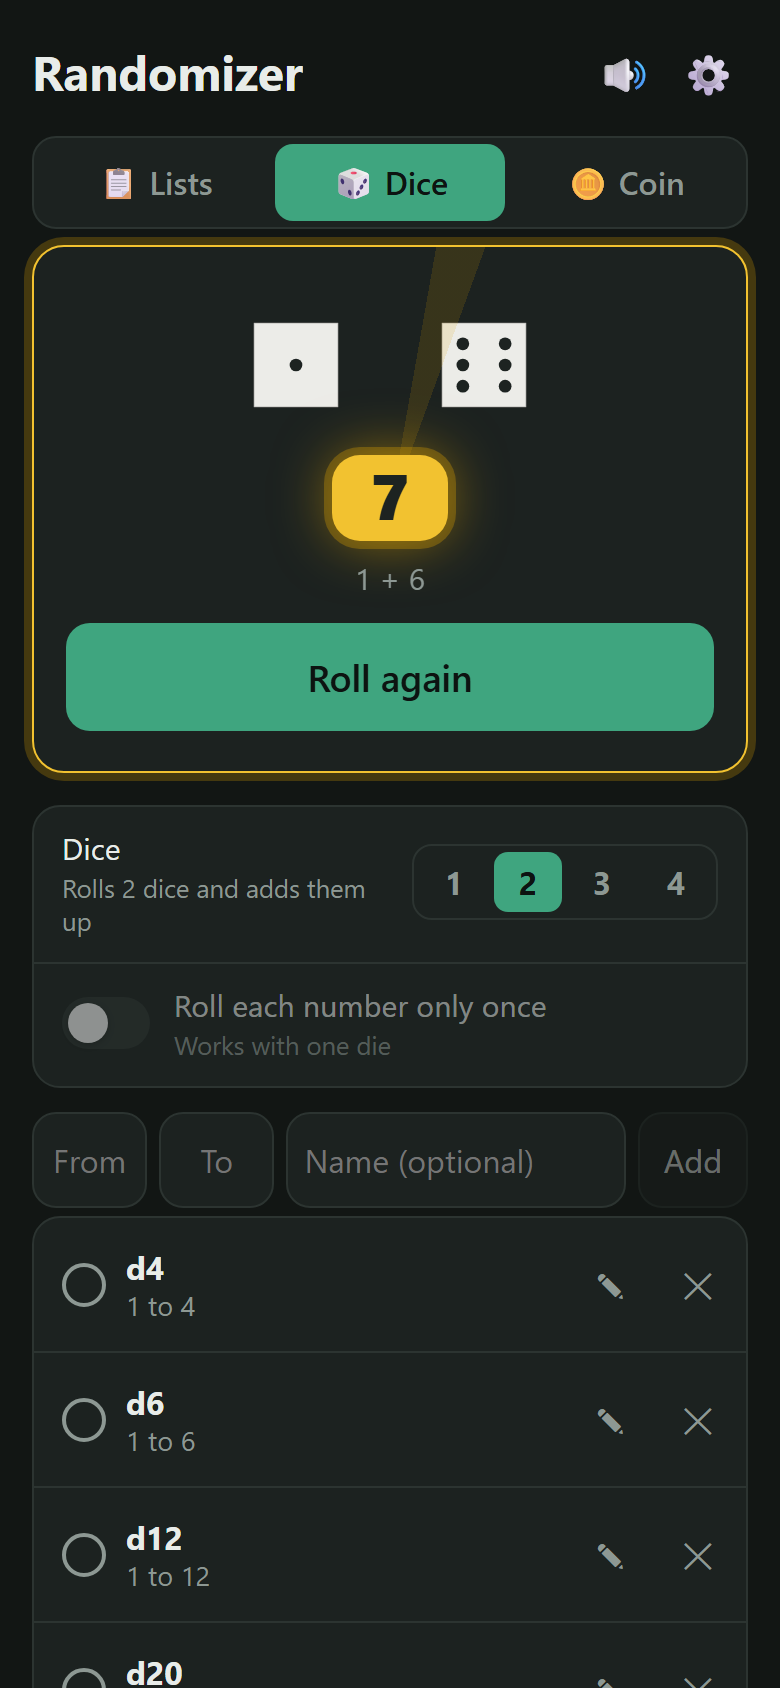
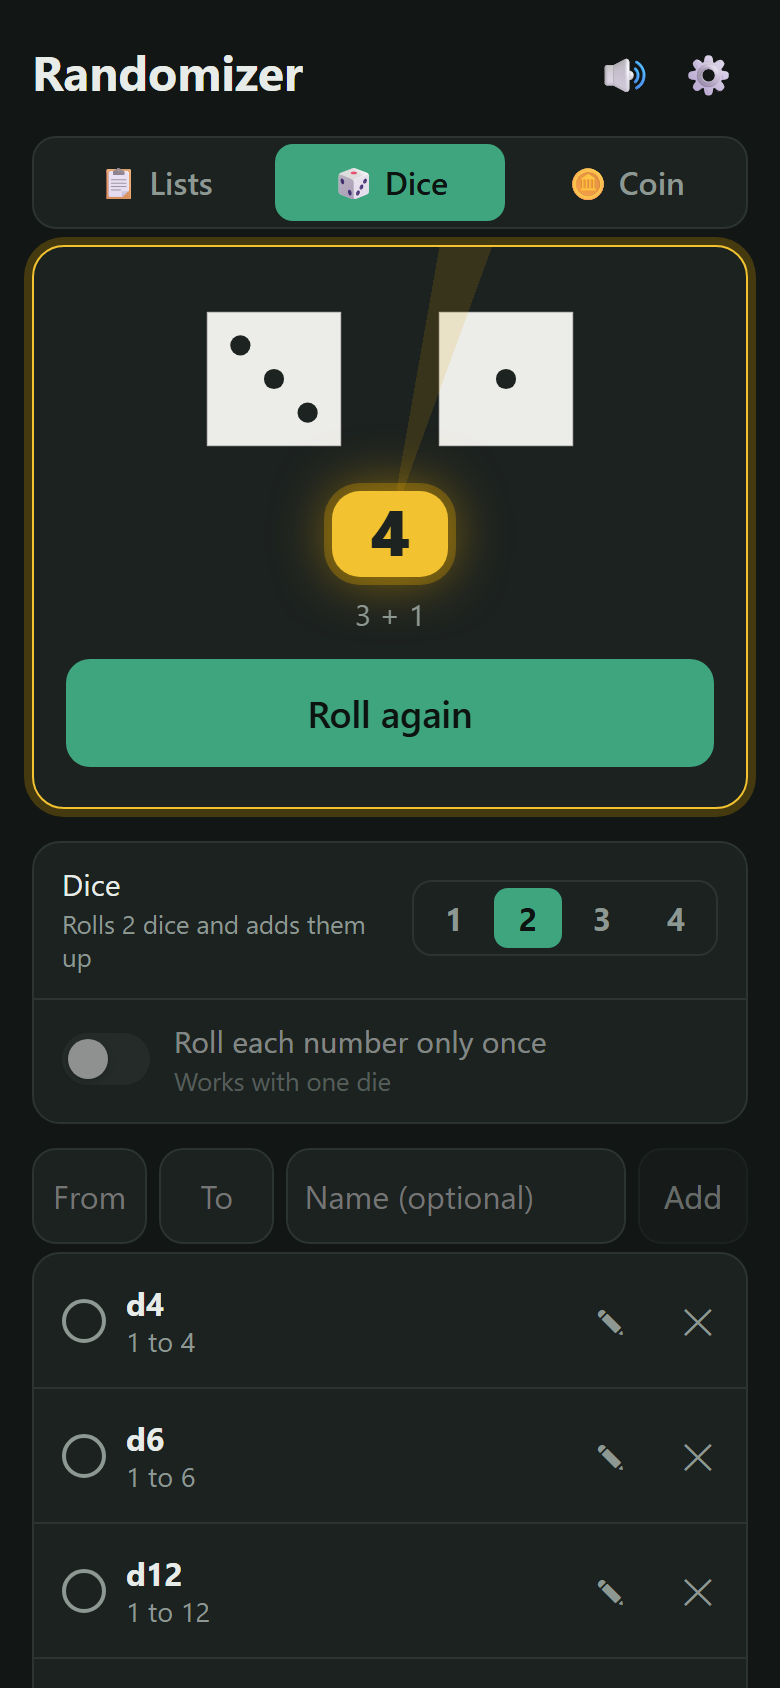
Bigger dice: larger canvases and fuller drawing

diff --git a/index.html b/index.html
@@ -105,10 +105,9 @@
   /* Dice mode shows the dice of the chosen range (1–4 of them), drawn in 3D on
      canvases: real shapes (d4, d6, d8, d10, d12, d20) when the range fits one,
      or a purple "magic" d20 otherwise. They rest on the face they last landed on. */
-  #die { display: flex; justify-content: center; gap: 4px; height: 0; opacity: 0; pointer-events: none; transition: height .3s ease, opacity .3s ease; }
-  body.number-mode #die { height: 90px; opacity: 1; margin-top: -6px; }
-  #die canvas { display: block; width: 90px; height: 90px; flex: none; }
-  #die.many canvas { width: 74px; height: 74px; margin-top: 8px; } /* three or four fit side by side */
+  #die { display: flex; justify-content: center; align-items: center; gap: 4px; height: 0; opacity: 0; pointer-events: none; transition: height .3s ease, opacity .3s ease; }
+  body.number-mode #die { height: 112px; opacity: 1; margin-top: -10px; }
+  #die canvas { display: block; flex: none; } /* sized from JS: smaller with more dice, so they fit side by side */
   #die canvas[hidden] { display: none; }
   body.number-mode #crown { display: none !important; } /* the dice are the result */
   /* a magic die's number flies out of it into the badge */
@@ -2725,15 +2724,15 @@ const upright = (d, angle) => qMul(qAxis([0, 1, 0], angle), qFromTo(d.shape.v[0]
 function setupDice(range) {
   const look = dieFor(range);
   const size = range.to - range.from + 1;
-  const cssSize = range.dice > 2 ? 74 : 90;
+  const cssSize = range.dice > 3 ? 74 : range.dice > 2 ? 100 : 112;
   const dpr = Math.min(3, window.devicePixelRatio || 1);
   const key = `${look.sides}:${look.magic}:${range.from}:${range.to}`;
-  $('die').classList.toggle('many', range.dice > 2);
   dice.forEach((d, i) => {
     d.canvas.hidden = i >= range.dice;
     if (d.canvas.hidden) return;
     const px = Math.round(cssSize * dpr);
     if (d.canvas.width !== px) d.canvas.width = d.canvas.height = px;
+    d.canvas.style.width = d.canvas.style.height = `${cssSize}px`;
     if (d.key === key) return;
     d.key = key;
     Object.assign(d, look, { shape: SHAPES[look.sides], target: null });
@@ -2764,7 +2763,7 @@ function drawDie(d, now) {
   const { ctx, canvas, shape } = d;
   const W = canvas.width;
   const R = qMatrix(d.q);
-  const scale = W * 0.36, D = 5, mid = W / 2;
+  const scale = W * 0.46, D = 5, mid = W / 2; // fills the canvas; corners reach at most 0.94 of the way to its edge as it turns
   const proj = (w) => { const f = D / (D - w[2]); return [mid + w[0] * scale * f, mid - w[1] * scale * f]; };
   const corners = shape.v.map(p => proj(turn(R, p)));
   ctx.setTransform(1, 0, 0, 1, 0, 0);
@@ -2834,7 +2833,7 @@ function drawSparkles(ctx, W, now, d) {
   ctx.fillStyle = 'rgba(232, 214, 255, .9)';
   for (let i = 0; i < 6; i++) {
     const a = i * 1.05 + (d.seed || 0);
-    const x = W / 2 + Math.cos(a) * W * 0.43, y = W / 2 + Math.sin(a) * W * 0.43;
+    const x = W / 2 + Math.cos(a) * W * 0.47, y = W / 2 + Math.sin(a) * W * 0.47;
     const s = W * 0.035 * (0.55 + 0.45 * Math.sin(now / 230 + i * 1.7));
     ctx.beginPath();
     ctx.moveTo(x, y - s * 2); ctx.lineTo(x + s * 0.5, y - s * 0.5); ctx.lineTo(x + s * 2, y); ctx.lineTo(x + s * 0.5, y + s * 0.5);

diff --git a/sw.js b/sw.js
@@ -1,5 +1,5 @@
 // Bump the version when you change any file so phones pick up the update.
-const CACHE = 'whostarts-v72';
+const CACHE = 'whostarts-v73';
 const FILES = ['./', 'index.html', 'manifest.json', 'icon-192.png', 'icon-512.png'];
 
 // 'reload' skips the browser's own HTTP cache, so a new version really gets

diff --git a/README.md b/README.md
@@ -165,7 +165,7 @@ Plain HTML, CSS and JavaScript, with no build step or dependencies.
 ### Making changes
 
 Edit the files and push to `main`. GitHub Pages publishes automatically.
-**Change `CACHE` in `sw.js` every time** (for example `whostarts-v72` → `whostarts-v73`), otherwise installed copies keep showing the old version and the update bar never appears.
+**Change `CACHE` in `sw.js` every time** (for example `whostarts-v73` → `whostarts-v74`), otherwise installed copies keep showing the old version and the update bar never appears.
 
 ## Support
 
